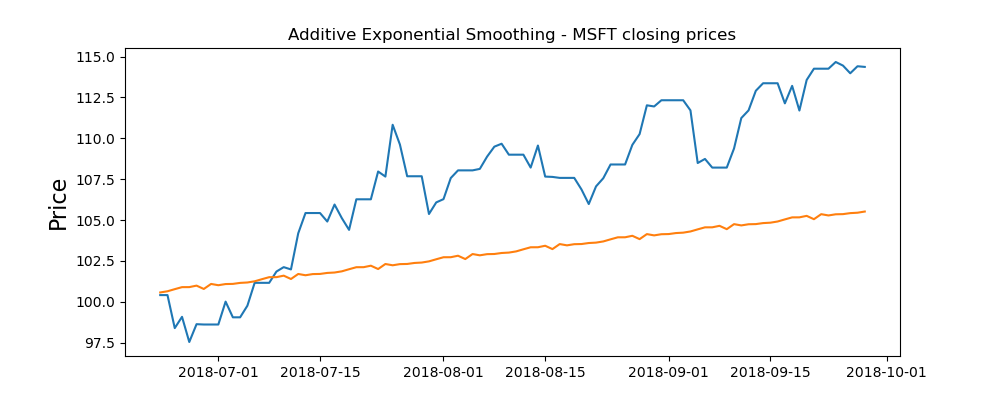
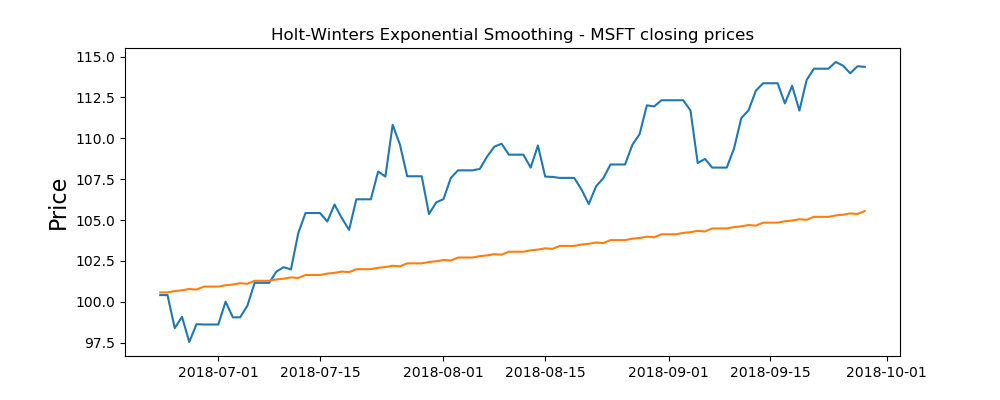
Final project commit

diff --git a/GARCH/GARCH.py b/GARCH/GARCH.py
@@ -4,10 +4,10 @@ from arch import arch_model
 from time import time
 import numpy as np
 from GARCH_data import MSFTdf, train_data, test_data, test_size, data_vol
-from statsmodels.graphics.tsaplots import plot_acf
+from statsmodels.graphics.tsaplots import plot_pacf
 
 # Generating PACF of squared returns
-garch_pacf = plot_acf(MSFTdf.Returns**2)
+garch_pacf = plot_pacf(MSFTdf.Returns**2)
 plt.show()
 
 # GARCH(1,1) model
@@ -24,6 +24,7 @@ garch_pred = pd.Series(garch_predictions.variance.values[-1, :], index=MSFTdf.In
 garch_residuals = garch_pred - data_vol
 print(garch_model_fit)
 print('GARCH Root Mean Squared Error:', np.sqrt(np.mean(garch_residuals**2)))
+print('GARCH Normal Root Mean Squared Error:', np.sqrt(np.mean(garch_residuals**2))/abs(np.mean(data_vol)))
 print('GARCH Mean Absolute Percent Error:', round(np.mean(abs(garch_residuals/data_vol))*100, 4), '%')
 print('GARCH Model Fitting Time:', timer_end - timer_start)
 
@@ -32,7 +33,7 @@ plt.figure(figsize=(10, 4))
 plt.plot(data_vol)
 plt.plot(garch_pred)
 plt.legend(('Data', 'Prediction'), fontsize=16)
-plt.title('Volatility in price first differences over time')
+plt.title('GARCH - Volatility in price first differences over time')
 plt.ylabel('Volatility', fontsize=16)
 plt.savefig('Predicted GARCH')
 plt.show()
@@ -53,6 +54,7 @@ roll = pd.Series(roll, index=MSFTdf.IntChange.index[-test_size:])
 # Calculating summary statistics for rolling origin
 roll_residuals = roll - data_vol
 print('GARCH (rolling origin) Root Mean Squared Error:', np.sqrt(np.mean(roll_residuals**2)))
+print('GARCH (rolling origin) N Root Mean Squared Error:', np.sqrt(np.mean(garch_residuals**2))/abs(np.mean(data_vol)))
 print('GARCH (rolling origin) Mean Absolute Percent Error:', round(np.mean(abs(roll_residuals/data_vol))*100, 4), '%')
 print('GARCH (rolling origin) Model Fitting Time:', timer_end - timer_start)
 
@@ -69,7 +71,11 @@ plt.show()
 with open('GARCH_Summary.txt', 'w') as wfile:
     wfile.write(garch_model_fit.summary().as_text())
     print('\nGARCH Root Mean Squared Error:', np.sqrt(np.mean(garch_residuals**2)), file=wfile)
+    print('GARCH Normal Root Mean Squared Error:', np.sqrt(np.mean(garch_residuals ** 2)) / abs(np.mean(data_vol)),
+          file=wfile)
     print('GARCH Mean Absolute Percent Error:', round(np.mean(abs(garch_residuals/data_vol))*100, 4), '%', file=wfile)
     print('GARCH (rolling origin) Root Mean Squared Error:', np.sqrt(np.mean(roll_residuals**2)), file=wfile)
+    print('GARCH (rolling origin) N Root Mean Squared Error:',
+          np.sqrt(np.mean(garch_residuals ** 2)) / abs(np.mean(data_vol)), file=wfile)
     print('GARCH (rolling origin) Mean Absolute Percent Error:', round(np.mean(abs(roll_residuals/data_vol))*100, 4),
           '%', file=wfile)

diff --git a/Exp_Smoothing/exp_smooth.py b/Exp_Smoothing/exp_smooth.py
@@ -6,7 +6,7 @@ from matplotlib import pyplot as plt
 
 # building Additive ES model
 test_size = len(test_data)
-add_es_model = ExponentialSmoothing(train_data, trend='add', seasonal='add', seasonal_periods=12)
+add_es_model = ExponentialSmoothing(train_data, trend='add', seasonal='add', seasonal_periods=7)
 
 # fitting model
 timer_start = time()
@@ -21,45 +21,20 @@ add_es_residuals = add_es_pred - test_data
 plt.figure(figsize=(10, 4))
 plt.plot(test_data)
 plt.plot(add_es_pred)
-plt.title('Additive Exponential Smoothing - MSFT closing prices')
+plt.title('Holt-Winters Exponential Smoothing - MSFT closing prices')
 plt.ylabel('Price', fontsize=16)
 plt.savefig('Additive ES model')
 plt.show()
 
 # Generating summary statistics
 print('Add ES Root Mean Squared Error:', np.sqrt(np.mean(add_es_residuals ** 2)))
+print('Add ES Normal Root Mean Squared Error:', np.sqrt(np.mean(add_es_residuals ** 2))/abs(np.mean(add_es_pred)))
 print('Add ES Mean Absolute Percent Error:', round(np.mean(abs(add_es_residuals / test_data)) * 100, 4), '%')
 print('Add ES Model Fitting Time:', timer_end - timer_start)
 
-# Building multiplicative ES model
-mul_es_model = ExponentialSmoothing(train_data, trend='mul', seasonal='mul', seasonal_periods=12)
-
-# fitting model
-timer_start = time()
-mul_es_model_fit = mul_es_model.fit()
-timer_end = time()
-
-# generating predictions
-mul_es_pred = mul_es_model_fit.forecast(test_size)
-mul_es_residuals = mul_es_pred - test_data
-
-# plotting predictions
-plt.figure(figsize=(10, 4))
-plt.plot(test_data)
-plt.plot(mul_es_pred)
-plt.title('Multiplicative Exponential Smoothing - MSFT closing prices')
-plt.ylabel('Price', fontsize=16)
-plt.savefig('Multiplicative ES model')
-plt.show()
-
-# Generating summary statistics
-print('Mul ES Root Mean Squared Error:', np.sqrt(np.mean(mul_es_residuals ** 2)))
-print('Mul ES Mean Absolute Percent Error:', round(np.mean(abs(mul_es_residuals / test_data)) * 100, 4), '%')
-print('Mul ES Model Fitting Time:', timer_end - timer_start)
-with open('LSTM_Summary.txt', 'w') as wfile:
+with open('HWES_Summary.txt', 'w') as wfile:
     print('Add ES Root Mean Squared Error:', np.sqrt(np.mean(add_es_residuals ** 2)), file=wfile)
+    print('Add ES Normal Root Mean Squared Error:', np.sqrt(np.mean(add_es_residuals ** 2)) / abs(np.mean(add_es_pred)),
+          file=wfile)
     print('Add ES Mean Absolute Percent Error:', round(np.mean(abs(add_es_residuals / test_data)) * 100, 4),
-          '%', file=wfile)
-    print('Mul ES Root Mean Squared Error:', np.sqrt(np.mean(mul_es_residuals ** 2)), file=wfile)
-    print('Mul ES Mean Absolute Percent Error:', round(np.mean(abs(mul_es_residuals / test_data)) * 100, 4),
           '%', file=wfile)

diff --git a/LSTM/LSTM_Volatility.py b/LSTM/LSTM_Volatility.py
@@ -3,7 +3,7 @@ import matplotlib.pyplot as plt
 from sklearn.preprocessing import MinMaxScaler
 from keras.models import Sequential
 from keras.layers import Dense, LSTM
-from Data_prep.Data_preparation import MSFTdf, train_data
+from GARCH.GARCH_data import MSFTdf, train_data
 from time import time
 import warnings
 warnings.filterwarnings("ignore")
@@ -11,7 +11,7 @@ warnings.filterwarnings("ignore")
 train_len = len(train_data)
 
 # Scaling data
-data = MSFTdf.filter(['Close'])
+data = MSFTdf.filter(['Volatility'])
 data_values = data.values
 scaler = MinMaxScaler(feature_range=(0, 1))
 scaled_data = scaler.fit_transform(data_values)
@@ -21,7 +21,7 @@ train = scaled_data[0:train_len, :]
 x_train = []
 y_train = []
 
-for i in range(60,len(train)):
+for i in range(60, len(train)):
     x_train.append(train[i-60:i, 0])
     y_train.append(train[i, 0])
 
@@ -78,19 +78,19 @@ lstm_final = data[train_len:]
 lstm_final['Predictions'] = lstm_predictions
 
 plt.figure(figsize=(10, 4))
-plt.plot(lstm_final['Close'])
+plt.plot(lstm_final['Volatility'])
 plt.plot(lstm_final['Predictions'])
 plt.legend(('Data', 'Predictions'), fontsize=16)
-plt.title('LSTM - MSFT closing prices over time')
-plt.ylabel('Price', fontsize=16)
-plt.savefig('Predicted LSTM')
+plt.title('LSTM - MSFT price volatility over time')
+plt.ylabel('Volatility', fontsize=16)
+plt.savefig('Volatility LSTM')
 plt.show()
 
 print('LSTM Root Mean Squared Error:', np.sqrt(np.mean(lstm_residuals ** 2)))
 print('LSTM Normal Root Mean Squared Error:', np.sqrt(np.mean(lstm_residuals ** 2))/abs(np.mean(y_test)))
 print('LSTM Mean Absolute Percent Error:', round(np.mean(abs(lstm_residuals / y_test)) * 100, 4), '%')
 print('LSTM Model Fitting Time:', timer_end - timer_start)
-with open('LSTM_Summary.txt', 'w') as wfile:
+with open('LSTM_Volatility.txt', 'w') as wfile:
     print('LSTM Root Mean Squared Error:', np.sqrt(np.mean(lstm_residuals ** 2)), file=wfile)
     print('LSTM Normal Root Mean Squared Error:', np.sqrt(np.mean(lstm_residuals ** 2)) / abs(np.mean(y_test)),
           file=wfile)

diff --git a/SARIMA/SARIMA.py b/SARIMA/SARIMA.py
@@ -5,12 +5,13 @@ from statsmodels.tsa.statespace.sarimax import SARIMAX
 from matplotlib import pyplot as plt
 
 
-# Building SARIMA(2,1,2)(0,1,1)12 model
-sarima_order = (2, 1, 2)
-season_order = (0, 1, 1, 12)
+# Building SARIMA(1,1,1)(1,1,1)7 model
+sarima_order = (1, 1, 1)
+season_order = (1, 1, 1, 7)
 sarima_model = SARIMAX(train_data, order=sarima_order, seasonal_order=season_order)
 timer_start = time()
 sarima_model_fit = sarima_model.fit()
+print(sarima_model_fit.summary())
 timer_end = time()
 
 # making prediction model
@@ -18,14 +19,18 @@ pred_start_date = test_data.index[0]
 pred_end_date = test_data.index[-1]
 sarima_predictions = sarima_model_fit.predict(start=pred_start_date, end=pred_end_date)
 sarima_residuals = test_data - sarima_predictions
+sarima_observed = test_data
 
 # printing results
 print('SARIMA Root Mean Squared Error:', np.sqrt(np.mean(sarima_residuals**2)))
+print('SARIMA Normal Root Mean Squared Error:', np.sqrt(np.mean(sarima_residuals**2))/abs(np.mean(test_data)))
 print('SARIMA Mean Absolute Percent Error:', round(np.mean(abs(sarima_residuals/test_data))*100, 4), '%')
 print('SARIMA Model Fitting Time:', timer_end - timer_start)
 with open('SARIMA_Summary.txt', 'w') as wfile:
     wfile.write(sarima_model_fit.summary().as_text())
     print('\nSARIMA Root Mean Squared Error:', np.sqrt(np.mean(sarima_residuals**2)), file=wfile)
+    print('SARIMA Normal Root Mean Squared Error:', np.sqrt(np.mean(sarima_residuals ** 2)) / abs(np.mean(test_data)),
+          file=wfile)
     print('SARIMA Mean Absolute Percent Error:', round(np.mean(abs(sarima_residuals/test_data))*100, 4),
           '%', file=wfile)
 
@@ -41,7 +46,7 @@ plt.figure(figsize=(10, 4))
 plt.plot(test_data)
 plt.plot(sarima_predictions)
 plt.legend(('Data', 'Predictions'), fontsize=16)
-plt.title('MSFT closing prices over time')
+plt.title('SARIMA - MSFT closing prices over time')
 plt.ylabel('Price', fontsize=16)
 plt.savefig('SARIMA Predicted')
 plt.show()

diff --git a/Auto-Arima/Auto_ARIMA.py b/Auto-Arima/Auto_ARIMA.py
@@ -1,24 +1,13 @@
 from Data_prep.Data_preparation import MSFTdf
 from pmdarima.arima import auto_arima
 
-# ARIMA
-stepwise_model = auto_arima(MSFTdf.Close, start_p=1, start_q=1,
-                            max_p=7, max_q=7, m=12,
-                            start_P=0, seasonal=False,
-                            d=1, D=1, trace=True,
-                            error_action='ignore',
-                            suppress_warnings=True,
-                            stepwise=True)
-# print lowest AIC
-print(stepwise_model.aic())
-
 # SARIMA
 stepwise_model = auto_arima(MSFTdf.Close, start_p=1, start_q=1,
-                            max_p=7, max_q=7, m=12,
+                            max_p=7, max_q=7, m=7,
                             start_P=0, seasonal=True,
                             d=1, D=1, trace=True,
                             error_action='ignore',
                             suppress_warnings=True,
                             stepwise=True)
 # print lowest AIC
-print(stepwise_model.aic())
+print(stepwise_model.summary())

diff --git a/ETS/ETS.py b/ETS/ETS.py
@@ -3,13 +3,19 @@ from matplotlib import pyplot as plt
 from Data_prep.Data_preparation import MSFTdf
 
 # additive decomposition
-result_add = seasonal_decompose(MSFTdf.Close, model='additive')
+result_add = seasonal_decompose(MSFTdf.Close[-70:], model='additive')
 fig = result_add.plot()
 plt.savefig('ETS Additive Decomposition')
 plt.show()
 
 # multiplicative decomposition
-result_mult = seasonal_decompose(MSFTdf.Close, model='multiplicative')
+result_mult = seasonal_decompose(MSFTdf.Close[-70:], model='multiplicative')
 fig = result_mult.plot()
 plt.savefig('ETS Multiplicative Decomposition')
+plt.show()
+
+# additive decomposition
+result_add = seasonal_decompose(MSFTdf.Close[-14:], model='additive')
+fig = result_add.plot()
+plt.savefig('14 day ETS Additive Decomposition')
 plt.show()

diff --git a/GARCH/GARCH_data.py b/GARCH/GARCH_data.py
@@ -18,7 +18,7 @@ MSFTdf['Ticker'] = 'MSFT'
 # calculating derived variables
 MSFTdf['IntChange'] = MSFTdf['Close'].diff()
 MSFTdf['Returns'] = MSFTdf['Close'].pct_change() * 100
-MSFTdf['Volatility'] = MSFTdf['IntChange'].rolling(window=2).std() * np.sqrt(len(MSFTdf)) * 0.01 + 1
+MSFTdf['Volatility'] = MSFTdf['IntChange'].rolling(window=2).std() * np.sqrt(len(MSFTdf)) * 0.01
 
 # removing missing values
 MSFTdf = MSFTdf.dropna()
